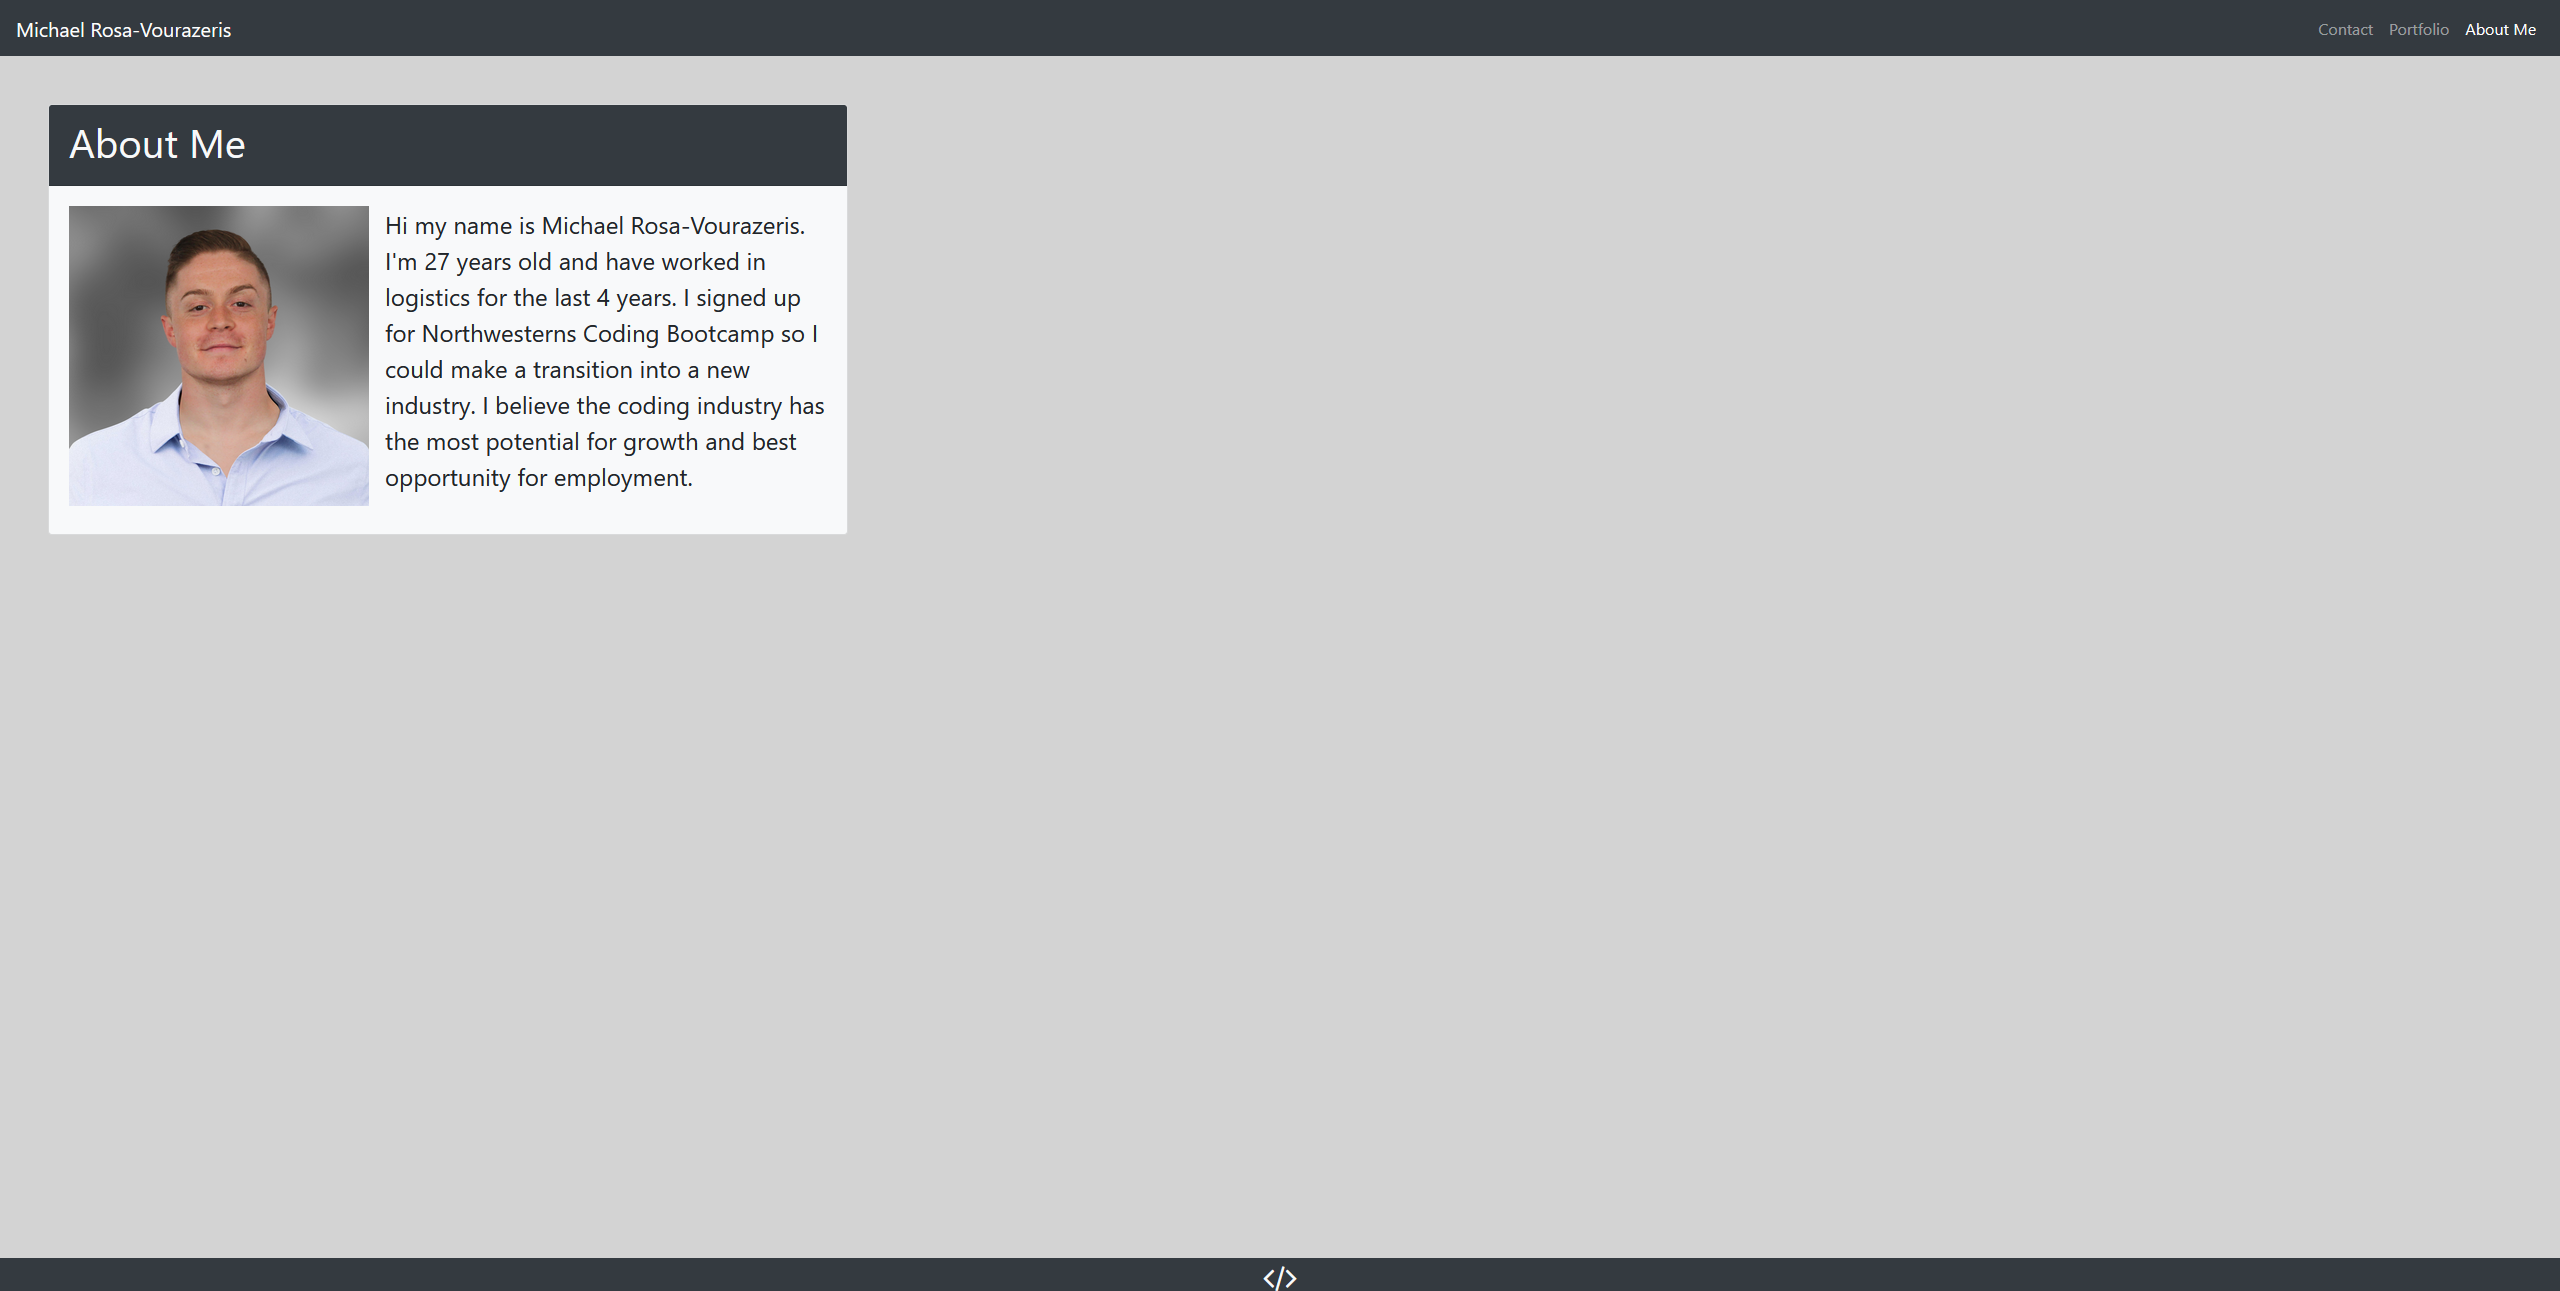
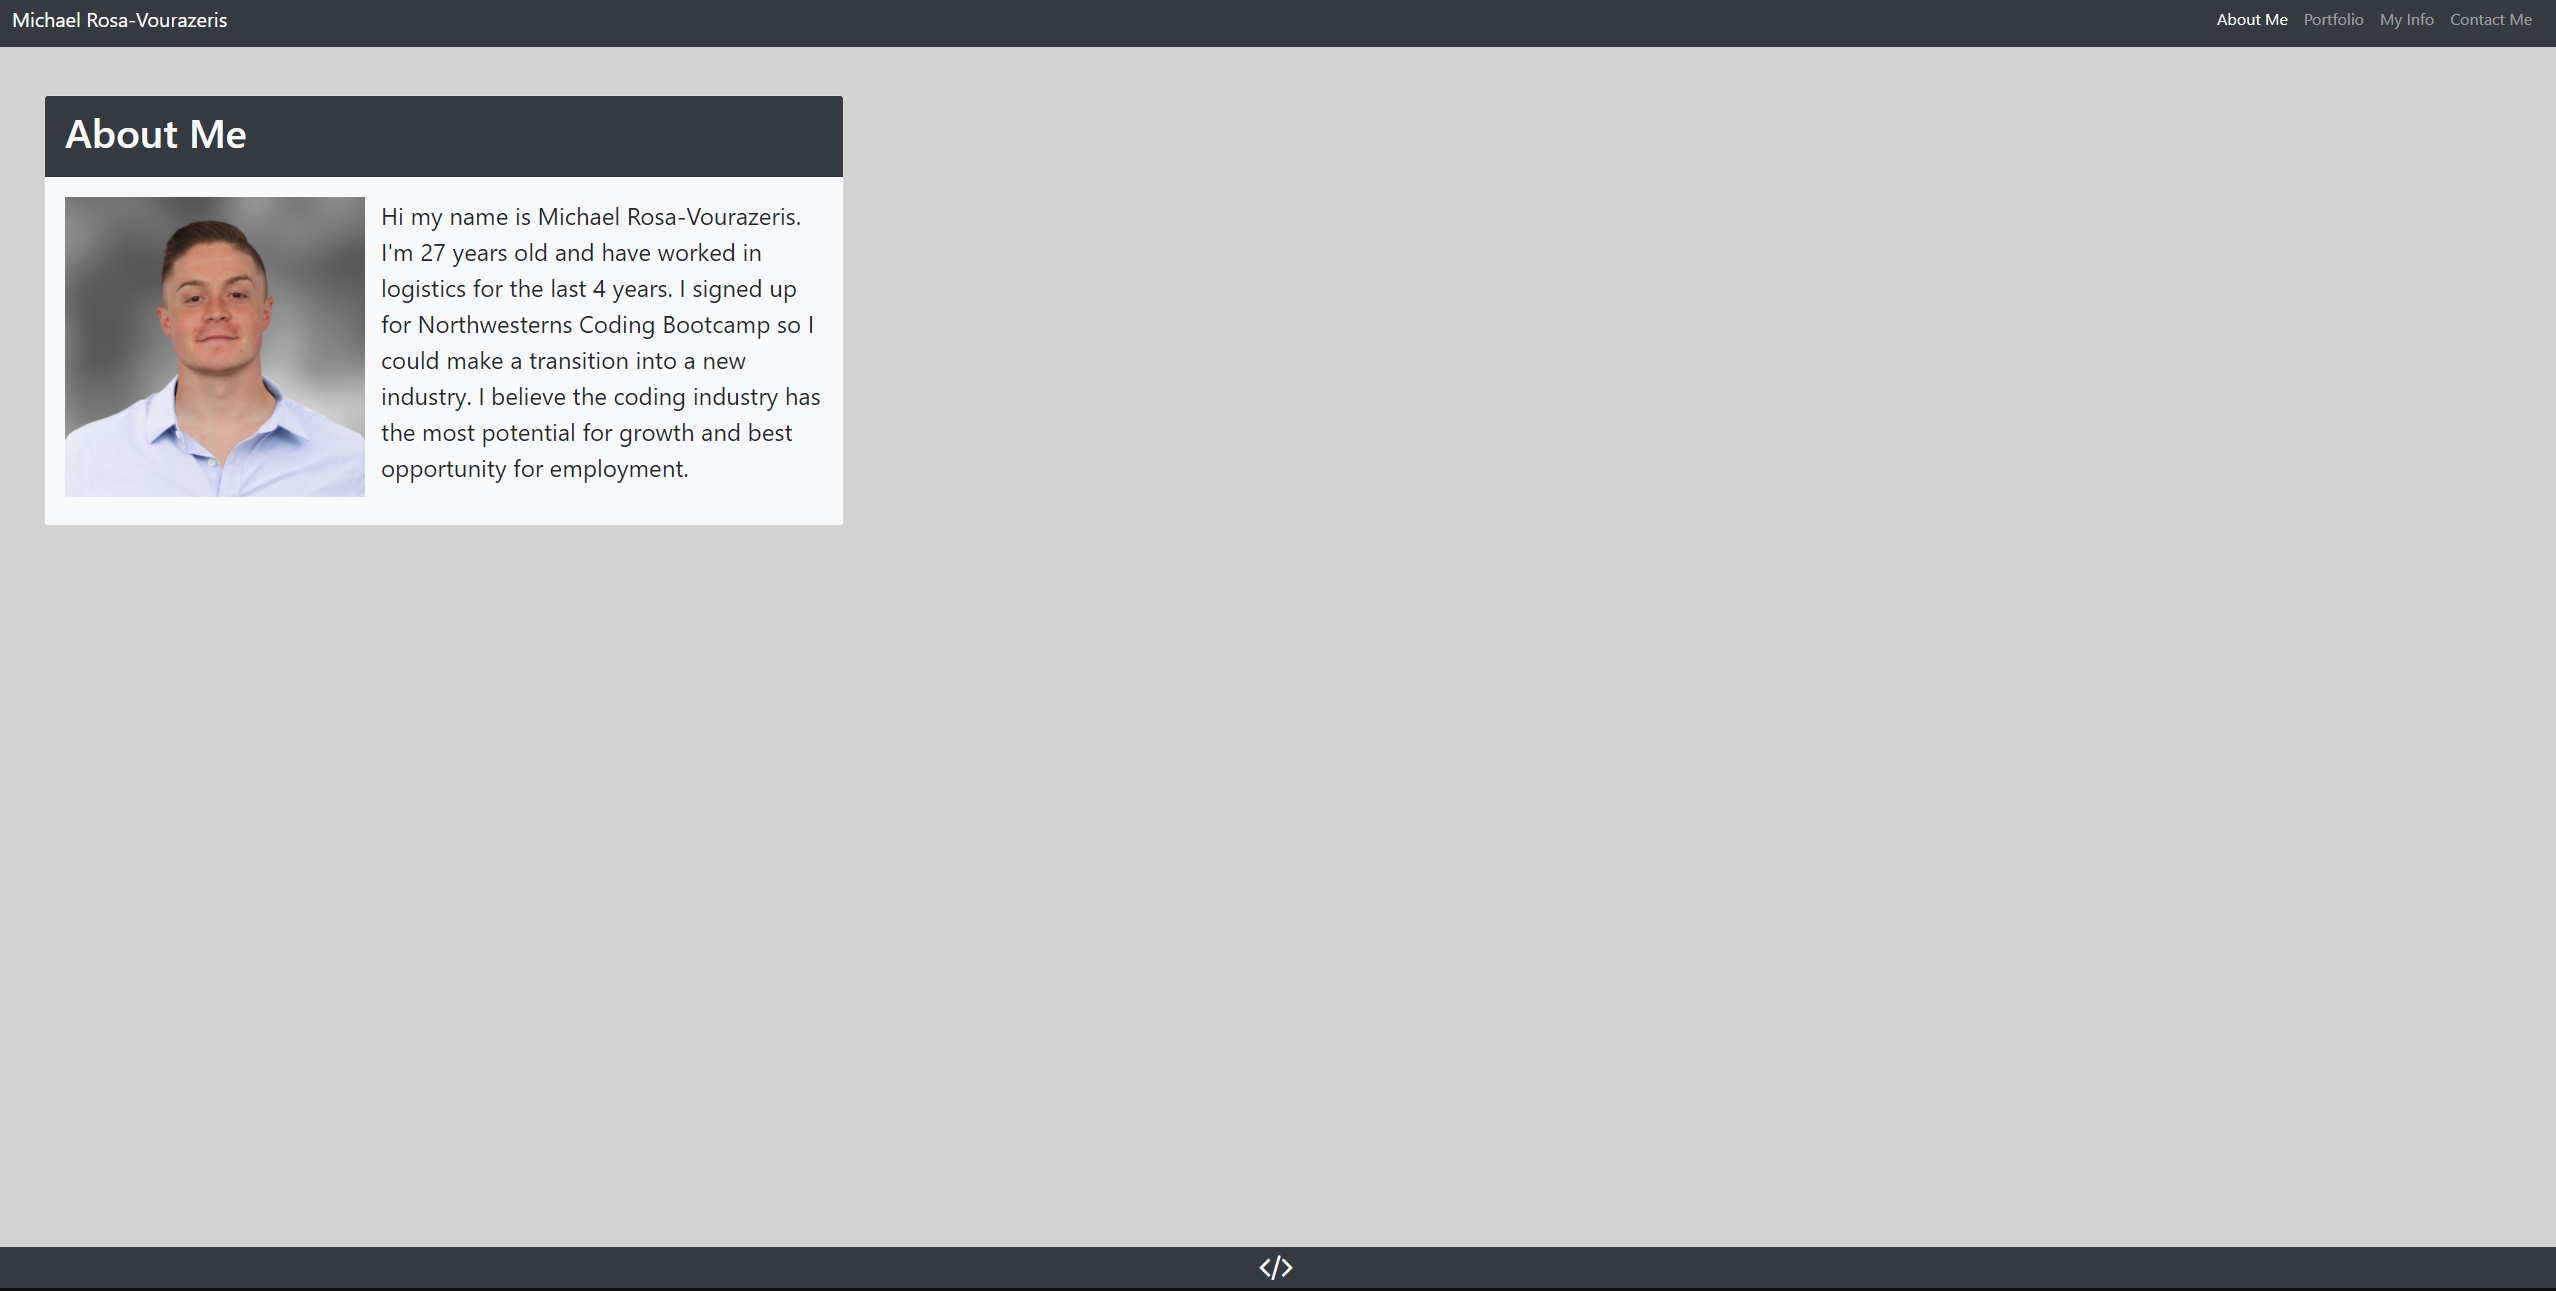
Updated readme file

Changed region(s): [[0.0, 0.0, 1.0, 0.4338], [0.0, 0.9605, 1.0, 1.0]]

diff --git a/mycontactinfo.html b/mycontactinfo.html
@@ -37,6 +37,7 @@
       <p>Phone Number: </p>
       <p>GitHub Profile: <a href="https://github.com/mrosavourazeris">https://github.com/mrosavourazeris</a></p>
       <p>LinkedIn: <a href="https://www.linkedin.com/in/michaelrosavourazeris/">https://www.linkedin.com/in/michaelrosavourazeris/</a></p>
+      <p>My Resume: <a href="https://www.dropbox.com/s/x6mlvy4gu92pipc/Michael%20Rosa-Vourazeris_Resume.DOCX?dl=0">Click to view/download</a></p>
     </div>
   </div>
 

diff --git a/README.md b/README.md
@@ -10,7 +10,9 @@ This repository contains my completed work for homework week 2. In this week's h
 
 ![My Portfolio](Assets/Images/my-portfolio.png)
 
-![My Contact](Assets/Images/my-contact.png)
+![My Info](Assets/Images/my-info.png)
+
+![Contact Me](Assets/Images/my-contact.png)
 
 ## Link to Deployed Application
 
